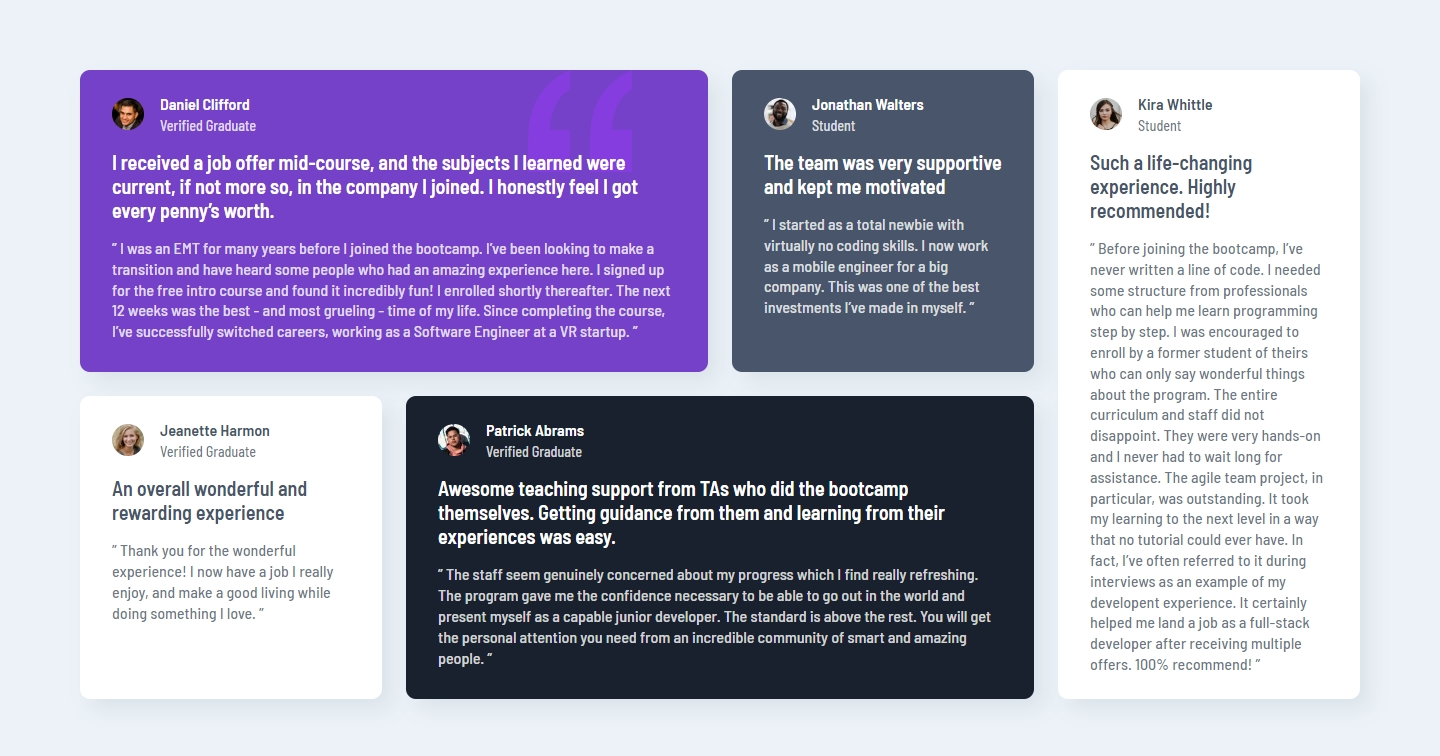
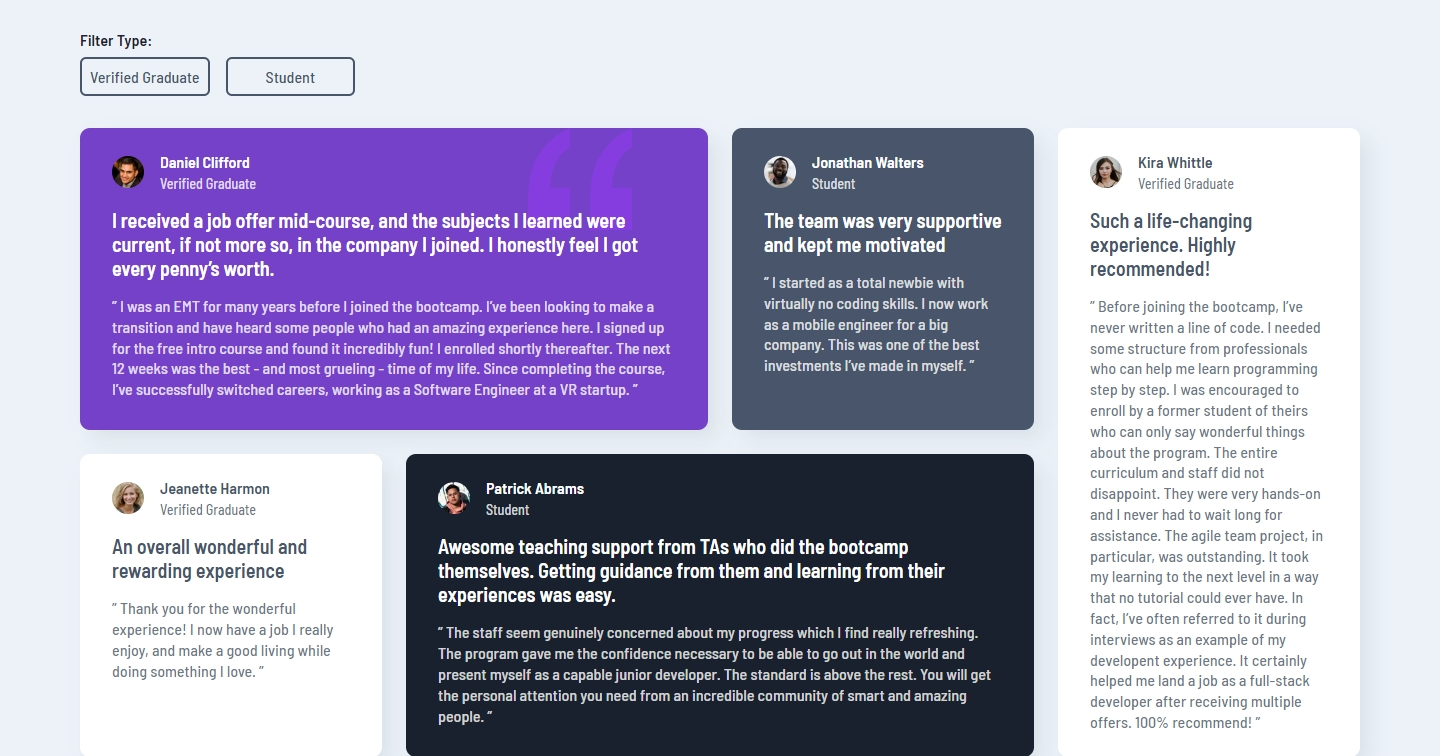
docs: update screenshots and readme for filter buttons

diff --git a/README.md b/README.md
@@ -21,6 +21,7 @@ This is my solution to the [Testimonials Grid Section](https://www.frontendmento
 
 - React.
 - Vanilla CSS.
+- React Router (For testimonial filtering).
 - Framer Motion.
 - Vite.
 
@@ -35,19 +36,22 @@ This is my solution to the [Testimonials Grid Section](https://www.frontendmento
 
 ### Features. ✨
 
+- Added two buttons to filter testimonials based on whether they are from a verified graduate or a student.
 - Added some view based animations using Framer Motion.
-- Used the `useReducedMotion` hook to make sure that users who have reduced motion setting enabled don't see the animations, providing a smoother experience for them.
+- Used the `useReducedMotion` hook to make sure that users who have reduced motion setting enabled don't see the animations.
 
 #
 
 ### New Things Learned. 🎓
 
+- `useSearchParams` hook in React Router.
 - Using the Framer Motion Library.
 
 #
 
 ### Testing and Accessibility. 🧪
 
+- Tested site usability with keyboard-only navigation.
 - Used the Responsively App to check the site's appearance on various screen sizes, from 320x480 to 3000x2000.
 - Set the browser font size on desktop to various values ranging from 9px to 72px to ensure everything on the site scales properly with the user's preferred browser font size.
 - Zoomed the page in and out using Ctrl + Scroll wheel (up to 500%).
